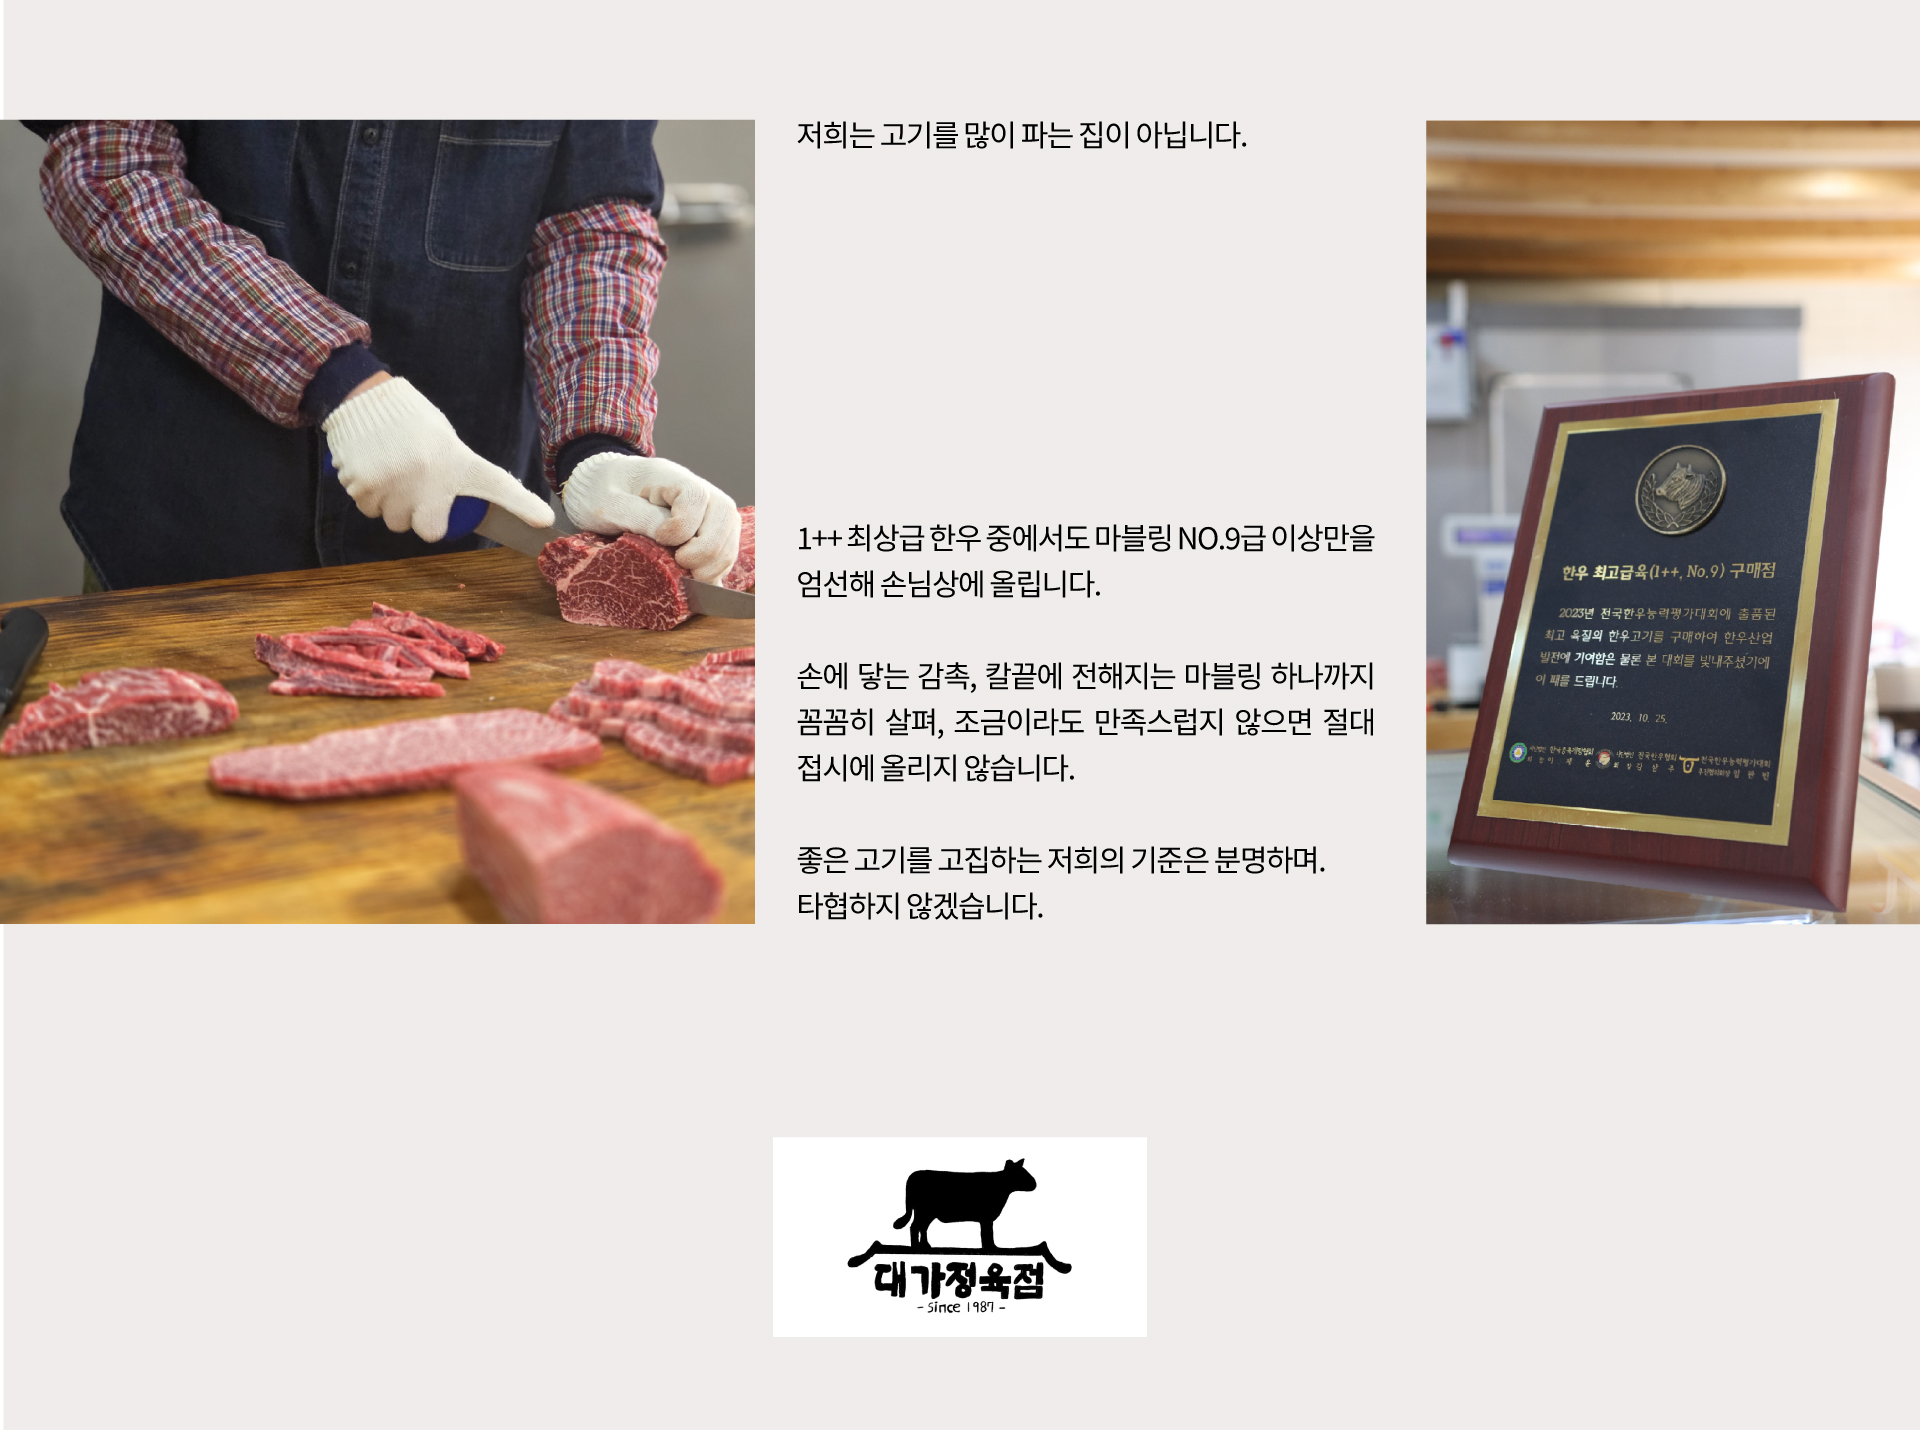
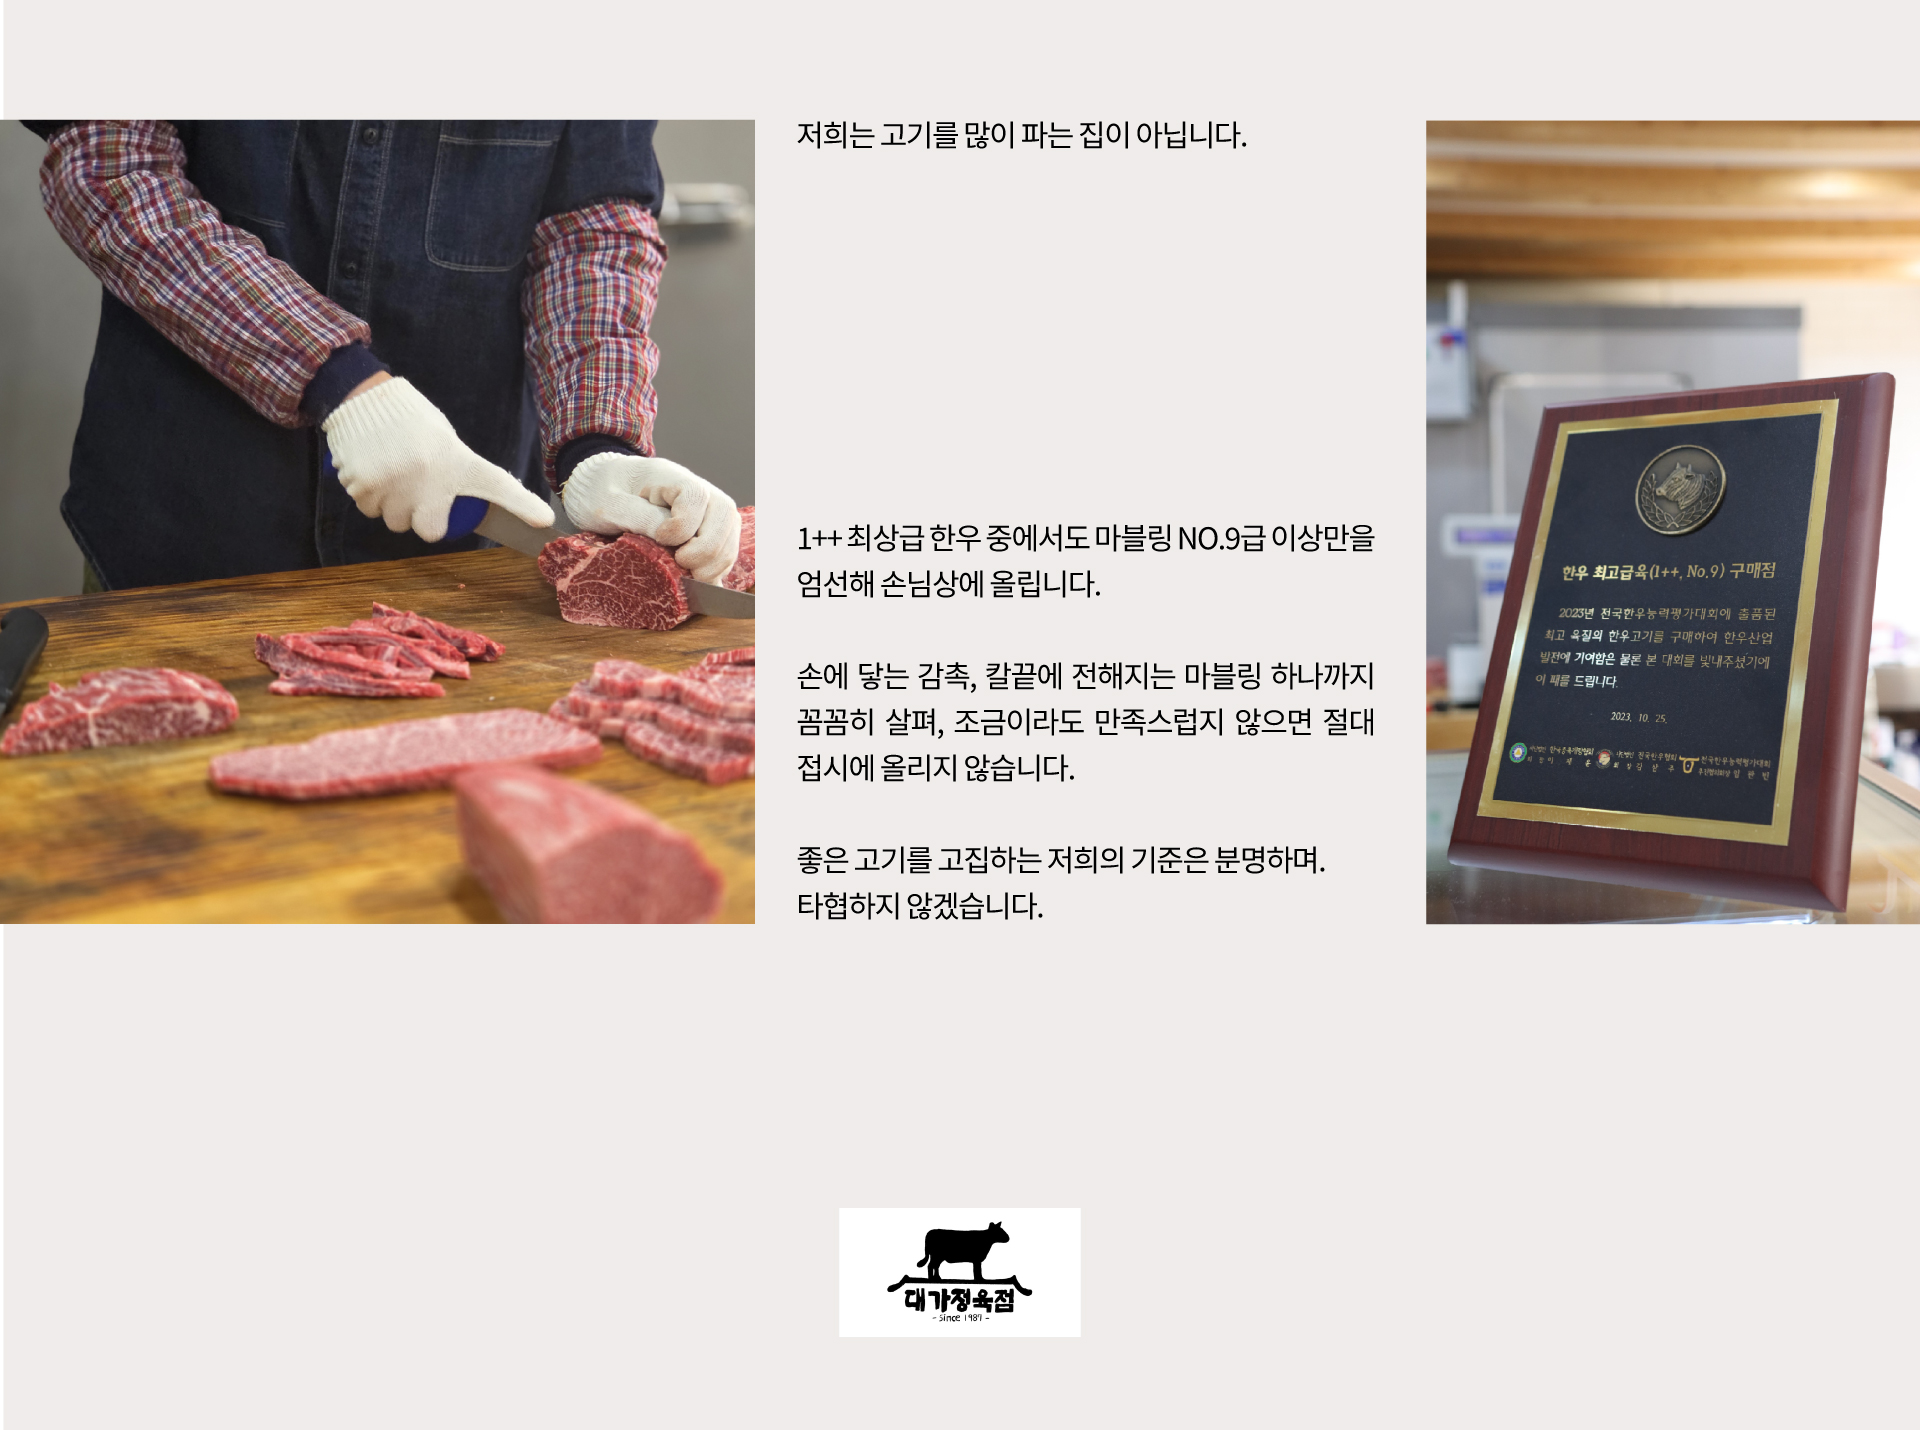
대가식육식당로고변경22222  퐁퐁

Changed region(s): [[0.4375, 0.8, 0.5625, 0.9231]]

diff --git a/src/components/store/storeDetail.css b/src/components/store/storeDetail.css
@@ -477,7 +477,7 @@
 /* 대가식육식당 */
 
 .deagaB1 {
-  top: 5%;
+  top: 6.5%;
   right: 28%;
   font-size: clamp(28px, 4vw, 60px);
   font-weight: bold;
@@ -487,7 +487,7 @@
 }
 
 .deagaB2 {
-  top: 10%;
+  top: 14.5%;
   left: 41.5%;
   transform: translateX(0);
   font-size: clamp(28px, 4vw, 60px);
